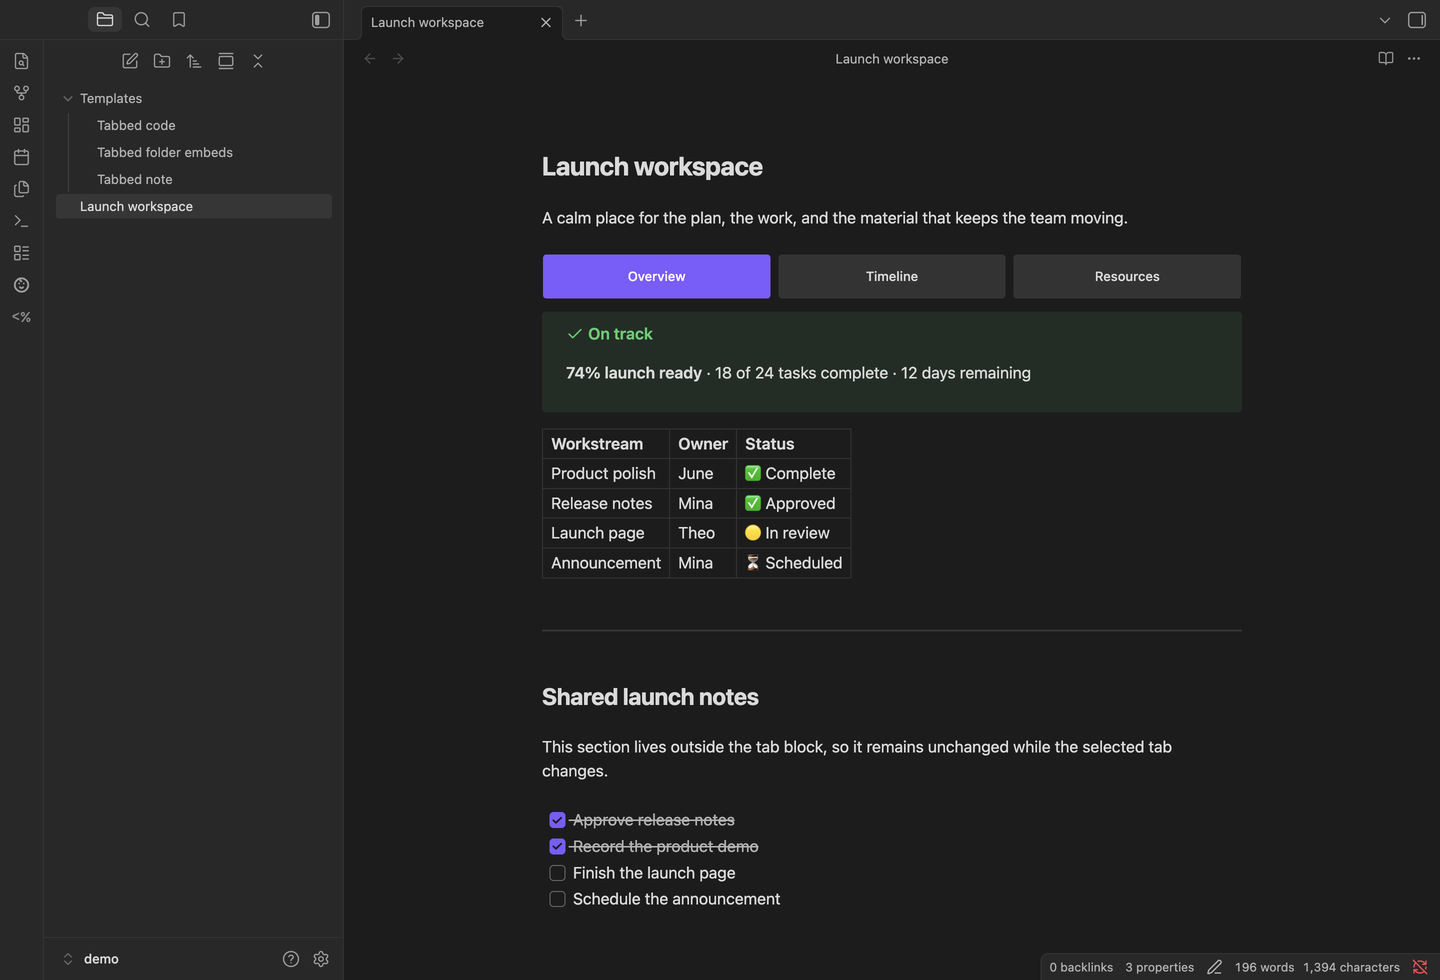
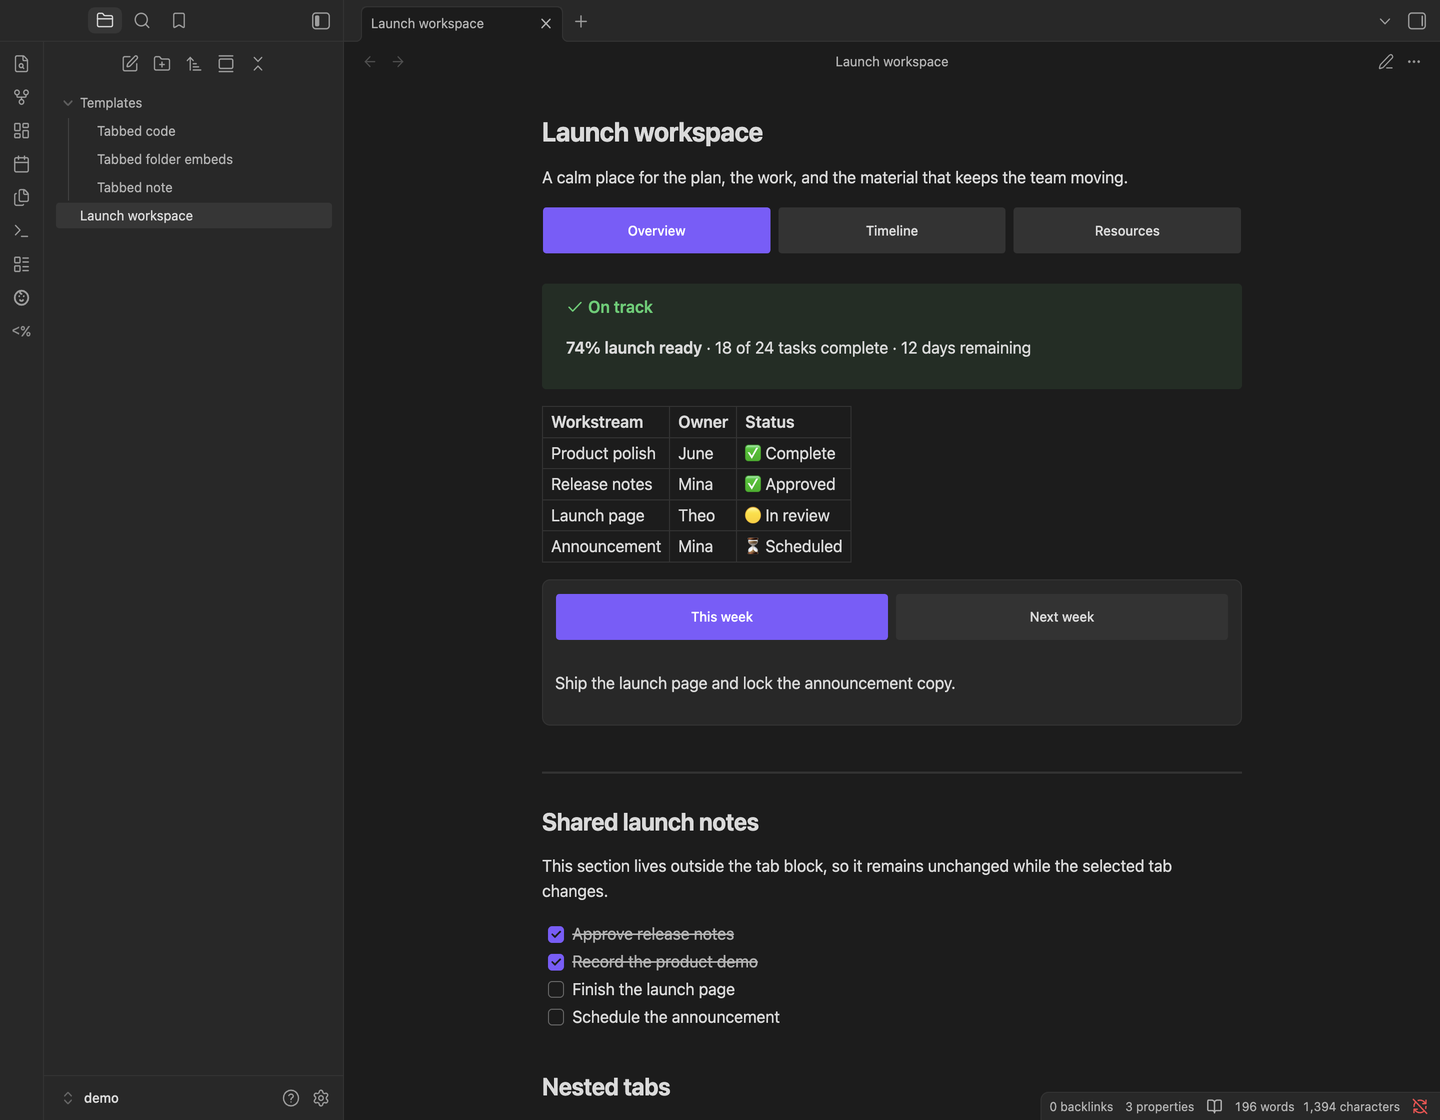
docs: show the nested block in the showcase

diff --git a/README.md b/README.md
@@ -2,7 +2,7 @@
 
 Put related Markdown, queries, and embeds into compact, accessible tabs without turning your Obsidian notes into custom pages.
 
-![A note in Reading View cycling through the Overview, Timeline, and Resources tabs of one tabsdown block](docs/assets/tabsdown-showcase.gif)
+![A note in Reading View cycling through the Overview, Timeline, and Resources tabs of a tabsdown block, with a nested block inside the first tab](docs/assets/tabsdown-showcase.gif)
 
 ## Features
 
